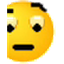
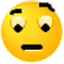
Emote mle_337 was cut in half: show the same face whole (mle_092), and keep it out of the picker
Claude-Session: https://claude.ai/code/session_015KaomSJmCm92eW3EzrnxGq

diff --git a/lib/emotes.ts b/lib/emotes.ts
@@ -53,7 +53,7 @@ export const EMOTE_CODES: Record<string, string> = (() => {
 // these copies are only hidden from the emote panel. Their codes stay exactly
 // as they were (codes are numbered by picker order), so old messages and a
 // typed code still show the picture. Keep in sync with the app's Emotes.kt.
-export const PICKER_HIDDEN = new Set<string>(["mle_289", "mle_288", "mlp_031", "mlp_030", "mle_110", "mle_219", "mle_084", "mle_248", "mle_274", "mle_295", "mle_152", "mle_235", "mle_130", "mle_173", "mle_346", "mle_124", "mle_168", "mle_216", "mle_250", "mle_320", "mle_285", "mle_331", "mle_357", "mle_280", "mle_222", "mle_199", "mle_060", "mle_171", "mle_184", "mle_174", "mle_218", "mle_207", "mle_091", "mle_287", "mle_332", "mle_276", "mle_352", "mle_203", "mle_305", "mle_304", "mle_342", "mle_209", "mle_333", "mle_271", "mle_322"]);
+export const PICKER_HIDDEN = new Set<string>(["mle_289", "mle_288", "mlp_031", "mlp_030", "mle_110", "mle_219", "mle_084", "mle_248", "mle_274", "mle_295", "mle_152", "mle_235", "mle_130", "mle_173", "mle_346", "mle_124", "mle_168", "mle_216", "mle_250", "mle_320", "mle_285", "mle_331", "mle_357", "mle_280", "mle_222", "mle_199", "mle_060", "mle_171", "mle_184", "mle_174", "mle_218", "mle_207", "mle_091", "mle_287", "mle_332", "mle_276", "mle_352", "mle_203", "mle_305", "mle_304", "mle_342", "mle_209", "mle_333", "mle_271", "mle_322", "mle_337"]); // mle_337: its picture was cut in half — now shows mle_092 (the same face, whole), and is left out of the picker (no twin)
 
 export const isAnimated = (id: string) => id.startsWith("mla_");
 
